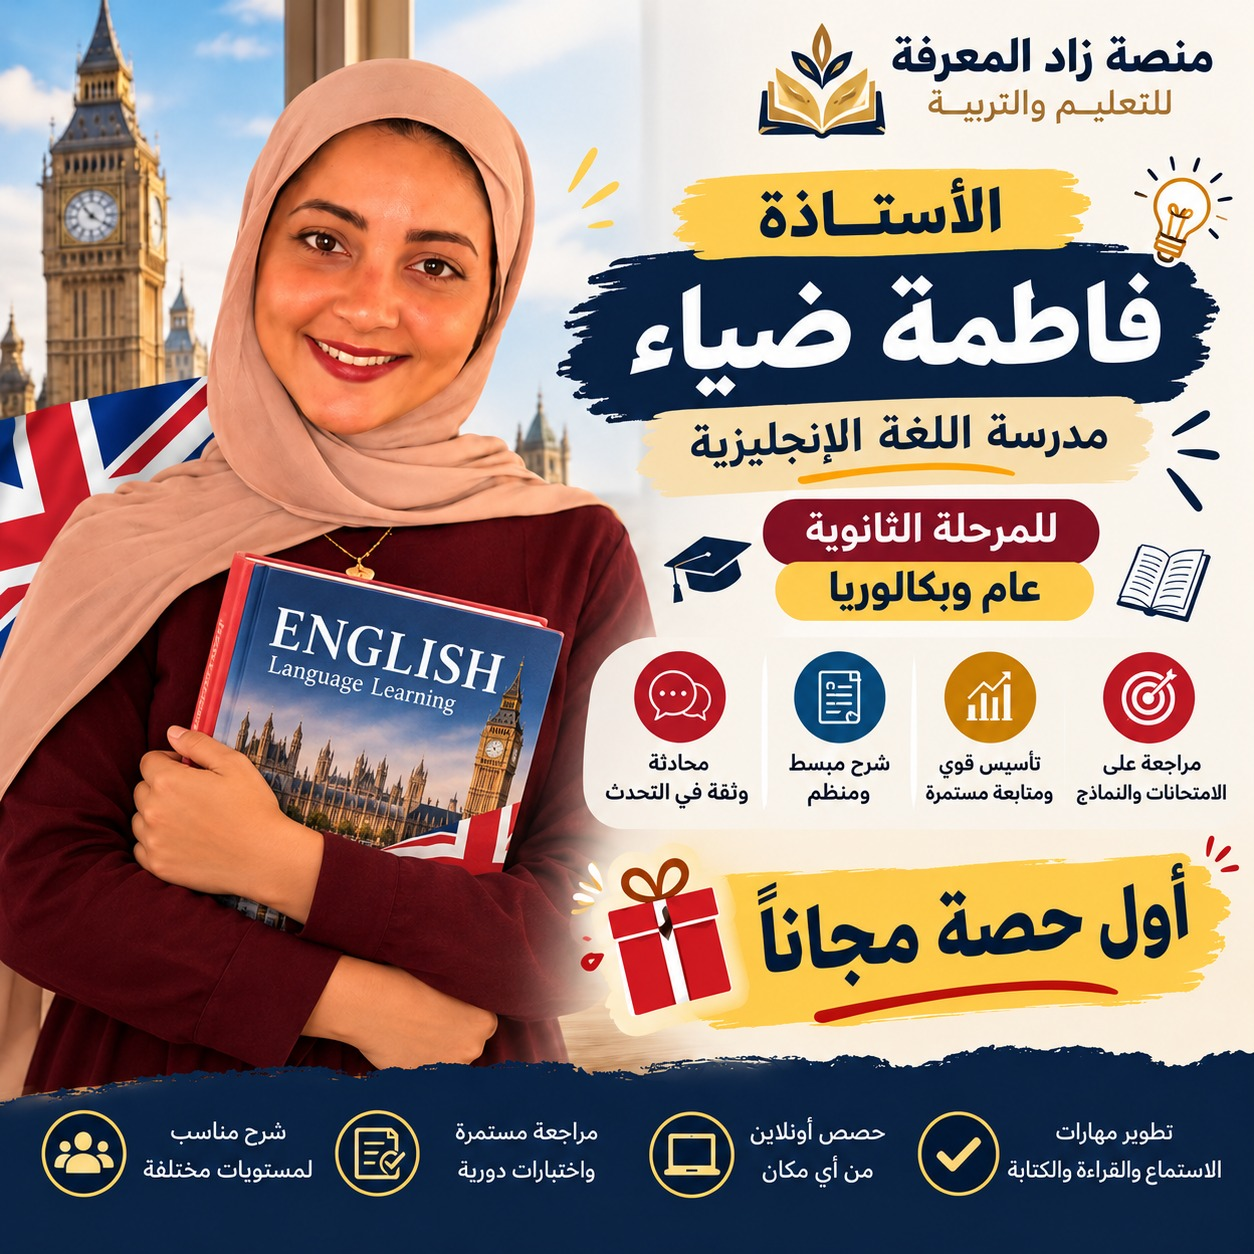
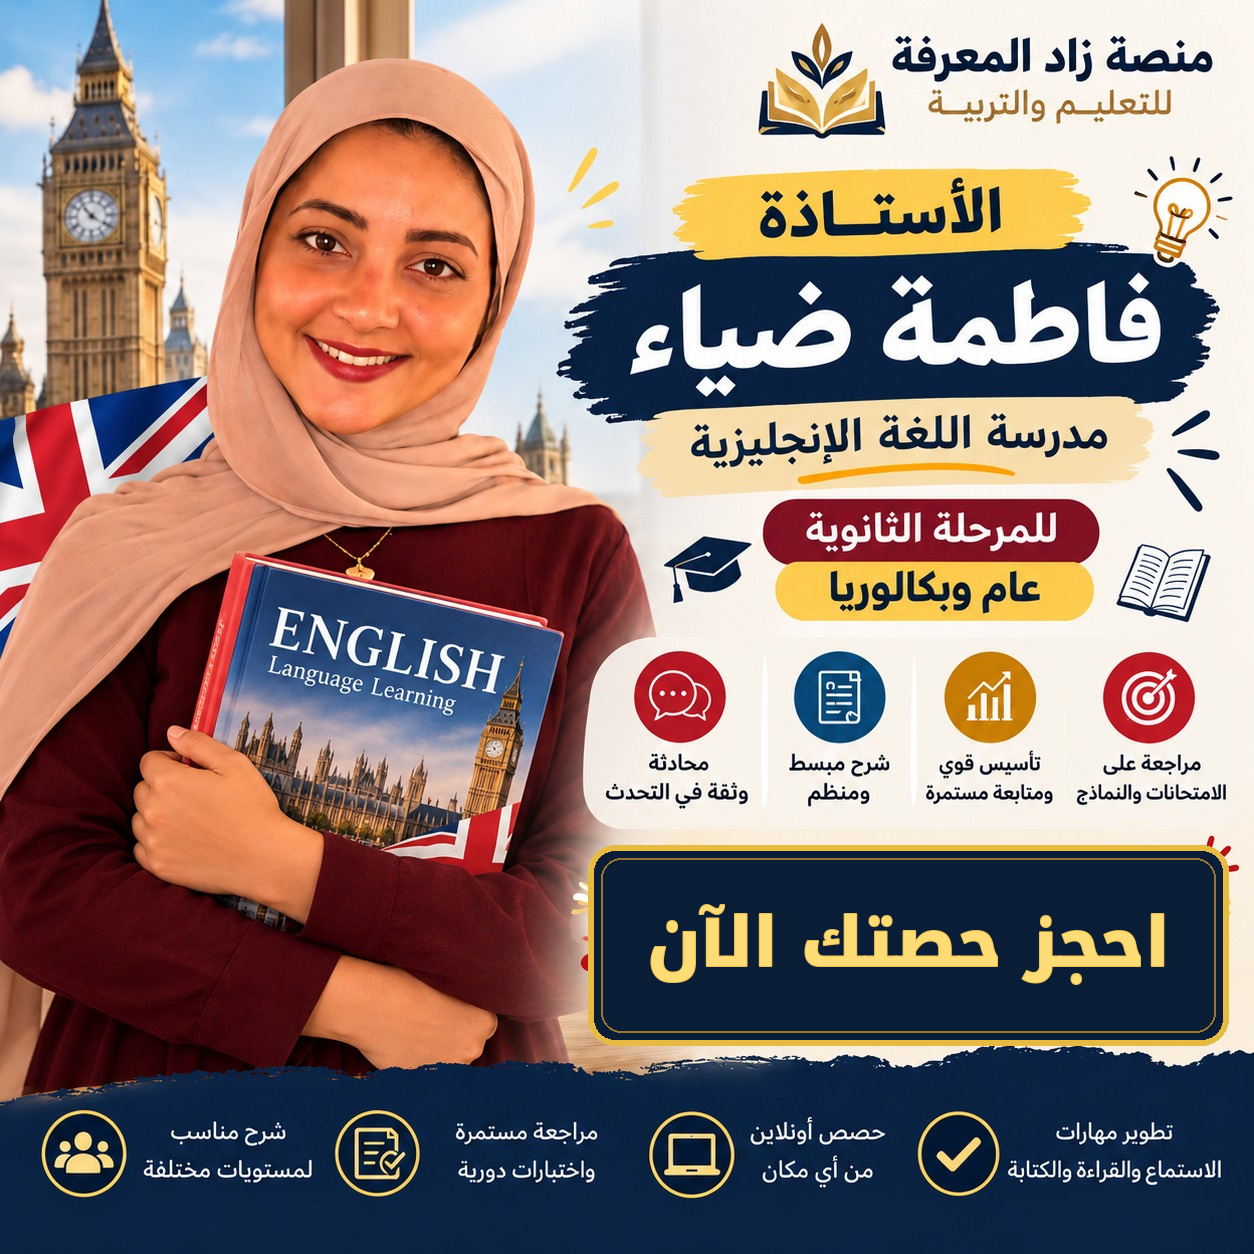
zad

Changed region(s): [[0.4665, 0.6531, 0.9952, 0.8397]]

diff --git a/teachers/index.html b/teachers/index.html
@@ -38,19 +38,20 @@ const LEGACY_TEACHERS = [
  { legacyKey:'legacy-dhia-quran', name:'الأستاذ ضياء نبيل', subject:'القرآن الكريم, التجويد, حفظ القرآن', role:'معلم القرآن الكريم وعلوم التجويد', image:'../images/quran-title.png', bio:'معلم متخصص في تحفيظ القرآن الكريم وتعليم أحكام التجويد، مع تبسيط التلاوة وتدريب الطلاب على القراءة الصحيحة بأسلوب سهل ومبسط.' },
  { legacyKey:'legacy-dhia-calligraphy', name:'الأستاذ ضياء نبيل', subject:'الخط العربي, تحسين الخط, الزخرفة', role:'معلم الخط العربي والزخرفة الإسلامية', image:'../images/arabic-calligraphy.png', bio:'معلم متخصص في تعليم الخط العربي بأنواعه المختلفة، مع التركيز على تنمية مهارات الجمال الفني في الكتابة والزخرفة الإسلامية.' },
  { legacyKey:'legacy-dhia-arabic', name:'الأستاذ ضياء نبيل', subject:'اللغة العربية', role:'معلم متعدد التخصصات', image:'../images/arabic-teacher.png', bio:'معلم متميز في اللغة العربية، يجمع بين العلم الشرعي والأصيل والإتقان في تعليم القرآن الكريم والمواد الشرعية بأسلوب مبسط وممتع.' },
- { legacyKey:'zad-mohamed-khaled-mahmoud', name:'الأستاذ محمد خالد محمود', subject:'الكيمياء, العلوم', stages:'المرحلة الثانوية', specialties:2, experience:1, role:'مدرس الكيمياء والعلوم للمرحلة الثانوية', image:'../images/mohamed-khaled-mahmoud.webp', bookingSection:'العلوم', bookingSubject:'الكيمياء', bio:'شرح مبسط وتدريبات ومتابعة للمرحلة الثانوية بجميع الشعب. حصص أونلاين وبرايفت.' }
+ { legacyKey:'zad-mohamed-khaled-mahmoud', name:'الأستاذ محمد خالد محمود', subject:'الكيمياء, العلوم', stages:'المرحلة الثانوية', specialties:1, experience:3, studentsCount:50, role:'مدرس الكيمياء والعلوم للمرحلة الثانوية', image:'../images/mohamed-khaled-mahmoud.webp', bookingSection:'العلوم', bookingSubject:'الكيمياء', bio:'شرح مبسط وتدريبات ومتابعة للمرحلة الثانوية بجميع الشعب. حصص أونلاين وبرايفت.' }
 ];
 
 function render(t){
  const name=text(t.name)||'المعلم';
- const image=photo(t.image);
+ const image=photo(/فاطمة\s+ضياء/.test(name)?'../images/fatima-diaa.jpeg':/محمد\s+خالد/.test(name)?'../images/mohamed-khaled-mahmoud.webp':t.image);
  // صور الإعلانات القديمة تحتوي عبارة الحصة المجانية داخل الصورة نفسها.
- const neutralPoster=/(?:فاطمة\s+ضياء|محمد\s+خالد)/.test(text(t.name));
+ const neutralPoster=false;
  const subjects=text(t.subject).split(',').map(x=>x.trim()).filter(Boolean);
  const stages=text(t.stages).split(',').map(x=>x.trim()).filter(Boolean);
  const bio=text(t.bio); const role=text(t.role);
- const experience=num(t.experience); const specialties=num(t.specialties)||subjects.length;
- const studentsCount=num(t.studentsCount);
+ const isHighlightedTeacher=/فاطمة\s+ضياء|محمد\s+خالد/.test(name);
+ const experience=isHighlightedTeacher?3:num(t.experience); const specialties=isHighlightedTeacher?1:(num(t.specialties)||subjects.length);
+ const studentsCount=isHighlightedTeacher?50:num(t.studentsCount);
  const subjectHtml=subjects.length?subjects.map(s=>`<span class="subject">📚 ${esc(s)}</span>`).join(''):'';
  const stageHtml=stages.length?`<div class="stages">${stages.map(stage=>`<span class="stage">🎓 ${esc(stage)}</span>`).join('')}</div>`:'';
  // Avoid showing an invented zero for experience or students when the value is unknown.
@@ -59,9 +60,16 @@ function render(t){
  const bookingSubject=text(t.bookingSubject)||subjects[0]||'';
  const params=new URLSearchParams({teacher:name,section:bookingSection,subject:bookingSubject});
  const bookingUrl='../sections/booking/index.html?'+params.toString();
- return `<article class="card">${neutralPoster?`<div class="teacher-neutral-art" aria-label="المعلم ${esc(name)}"><div class="teacher-neutral-mark">📚</div><div class="teacher-neutral-title">${esc(name)}</div><div class="teacher-neutral-desc">فريق تدريس زاد المعرفة</div></div>`:`<a class="photo-link" href="${esc(image)}" target="_blank" rel="noopener"><img loading="lazy" class="card-photo" src="${esc(image)}" alt="المعلم ${esc(name)}" onerror="this.onerror=null;this.src='../images/image-not-available.svg'"></a>`}<div class="card-body"><div><div class="teacher-name">${esc(name)}</div>${role?`<div class="teacher-role">${esc(role)}</div>`:''}</div>${subjectHtml?`<div class="subjects">${subjectHtml}</div>`:''}${stageHtml}${bio?`<p class="bio">${esc(bio)}</p>`:''}${stats.length?`<div class="stats">${stats.map(([label,value])=>`<div class="stat"><div class="stat-val">${esc(value)}</div><div class="stat-lbl">${esc(label)}</div></div>`).join('')}</div>`:''}<a class="book-teacher" href="${esc(bookingUrl)}">📅 احجز مع المعلم</a></div></article>`;
+ return `<article class="card"><a class="photo-link" href="${esc(image)}" target="_blank" rel="noopener"><img loading="lazy" class="card-photo" src="${esc(image)}" alt="المعلم ${esc(name)}" onerror="this.onerror=null;this.src='../images/image-not-available.svg'"></a><div class="card-body"><div><div class="teacher-name">${esc(name)}</div>${role?`<div class="teacher-role">${esc(role)}</div>`:''}</div>${subjectHtml?`<div class="subjects">${subjectHtml}</div>`:''}${stageHtml}${bio?`<p class="bio">${esc(bio)}</p>`:''}${stats.length?`<div class="stats">${stats.map(([label,value])=>`<div class="stat"><div class="stat-val">${esc(value)}</div><div class="stat-lbl">${esc(label)}</div></div>`).join('')}</div>`:''}<a class="book-teacher" href="${esc(bookingUrl)}">📅 احجز مع المعلم</a></div></article>`;
 }
-async function load(){try{const snap=await getDocs(collection(db,'teachers'));const raw=snap.docs.map(d=>({id:d.id,...d.data()}));const byLegacy=new Map(raw.filter(x=>x.legacyKey).map(x=>[x.legacyKey,x]));const firestoreList=raw.filter(x=>x.visible!==false).map(x=>{if(byLegacy.has(x.legacyKey)){const legacy=LEGACY_TEACHERS.find(t=>t.legacyKey===x.legacyKey);return legacy?{...legacy,...x,image:legacy.image}:x}return x});const fallbackList=LEGACY_TEACHERS.filter(x=>!byLegacy.has(x.legacyKey) && !raw.some(y=>text(y.name).replace(/^(الأستاذة|الأستاذ)\s+/, '')===text(x.name).replace(/^(الأستاذة|الأستاذ)\s+/, '')));const list=[...firestoreList,...fallbackList].filter(t=>!(/علي\s+عبد\s+الحميد/.test(text(t.name))||t.legacyKey==='zad-ali-abdelhamid')).map(t=>{const n=text(t.name);if(t.legacyKey==='zad-mohamed-khaled-mahmoud'||n.includes('محمد خالد محمود'))return {...t,subject:'الكيمياء, العلوم',stages:'المرحلة الثانوية',role:'مدرس الكيمياء والعلوم للمرحلة الثانوية',image:'../images/mohamed-khaled-mahmoud.webp',firstLessonFree:false,bookingSection:'العلوم',bookingSubject:'الكيمياء',bio:text(t.bio).replace(/،?\s*وأول حصة مجانية\.?/g,'')};return {...t,firstLessonFree:false,bio:text(t.bio).replace(/،?\s*وأول حصة مجانية\.?/g,'')};});if(!list.length){status.remove();grid.innerHTML='<div class="empty">لا يوجد معلمون مضافون حاليًا من لوحة التحكم.</div>';return}status.remove();grid.innerHTML=list.map(render).join('')}catch(e){console.warn('تعذر تحميل المعلمين من Firebase؛ سيتم عرض المعلمين الموجودين داخل الموقع.',e);status.remove();grid.innerHTML=LEGACY_TEACHERS.filter(t=>t.legacyKey!=='zad-ali-abdelhamid').map(render).join('')}}
+
+function isRemovedTeacher(t){
+ const n=[t?.name,t?.fullName,t?.displayName,t?.nameAr,t?.legacyKey,t?.id].filter(Boolean).join(' ').toLowerCase()
+   .normalize('NFKC').replace(/[\u064B-\u065F\u0670]/g,'').replace(/[أإآ]/g,'ا').replace(/ة/g,'ه');
+ return /فاطم[هة]\s+اشرف/.test(n) || /fat(?:ma|ima)\s*ashraf/.test(n) || /fatma[-_]?ashraf/.test(n);
+}
+
+async function load(){try{const snap=await getDocs(collection(db,'teachers'));const raw=snap.docs.map(d=>({id:d.id,...d.data()})).filter(t=>!isRemovedTeacher(t));const byLegacy=new Map(raw.filter(x=>x.legacyKey).map(x=>[x.legacyKey,x]));const firestoreList=raw.filter(x=>x.visible!==false).map(x=>{if(byLegacy.has(x.legacyKey)){const legacy=LEGACY_TEACHERS.find(t=>t.legacyKey===x.legacyKey);return legacy?{...legacy,...x,image:legacy.image}:x}return x});const fallbackList=LEGACY_TEACHERS.filter(x=>!byLegacy.has(x.legacyKey) && !raw.some(y=>text(y.name).replace(/^(الأستاذة|الأستاذ)\s+/, '')===text(x.name).replace(/^(الأستاذة|الأستاذ)\s+/, '')));const list=[...firestoreList,...fallbackList].filter(t=>!isRemovedTeacher(t)&&!(/علي\s+عبد\s+الحميد/.test(text(t.name))||t.legacyKey==='zad-ali-abdelhamid')).map(t=>{const n=text(t.name);if(t.legacyKey==='zad-mohamed-khaled-mahmoud'||n.includes('محمد خالد محمود'))return {...t,subject:'الكيمياء, العلوم',stages:'المرحلة الثانوية',role:'مدرس الكيمياء والعلوم للمرحلة الثانوية',image:'../images/mohamed-khaled-mahmoud.webp',firstLessonFree:false,bookingSection:'العلوم',bookingSubject:'الكيمياء',bio:text(t.bio).replace(/،?\s*وأول حصة مجانية\.?/g,'')};return {...t,firstLessonFree:false,bio:text(t.bio).replace(/،?\s*وأول حصة مجانية\.?/g,'')};});if(!list.length){status.remove();grid.innerHTML='<div class="empty">لا يوجد معلمون مضافون حاليًا من لوحة التحكم.</div>';return}status.remove();grid.innerHTML=list.map(render).join('')}catch(e){console.warn('تعذر تحميل المعلمين من Firebase؛ سيتم عرض المعلمين الموجودين داخل الموقع.',e);status.remove();grid.innerHTML=LEGACY_TEACHERS.filter(t=>t.legacyKey!=='zad-ali-abdelhamid').map(render).join('')}}
 load();
 </script>
 <script src="../assets/translation.js?v=20261016-globe2"></script><script src="https://translate.google.com/translate_a/element.js?cb=googleTranslateElementInit"></script>

diff --git a/dashboard/admin/remove-teacher-record.html b/dashboard/admin/remove-teacher-record.html
@@ -1,0 +1,9 @@
+<!doctype html><html lang="ar" dir="rtl"><head><meta charset="utf-8"><meta name="viewport" content="width=device-width,initial-scale=1"><title>حذف سجل فاطمة أشرف — زاد المعرفة</title><style>body{background:#0d1b31;color:#fff;font-family:Tahoma,Arial,sans-serif;max-width:740px;margin:70px auto;padding:25px;line-height:2}section{padding:26px;border:1px solid #d7b657;border-radius:18px;background:#172840}button,a{padding:12px 18px;border-radius:12px;background:#e6c15e;color:#122037;cursor:pointer;text-decoration:none;font-weight:bold;border:0}button:disabled{opacity:.5;cursor:wait}#message{white-space:pre-wrap;color:#dce6f5}</style></head><body><section><h1>حذف سجل المعلمة فاطمة أشرف</h1><p>الإجراء ده يحذف سجل المعلمة من مجموعة <code>teachers</code> في Firebase بعد التحقق من صلاحية الأدمن، ولا يحذف حساب تسجيل الدخول أو سجلات الحضور والمرتبات التاريخية.</p><p>الاسم يُفحص قبل الحذف لتجنب حذف معلمة أخرى. التعديل على الموقع بيخفيها بالفعل حتى قبل تنفيذ هذا الإجراء.</p><button id="removeBtn" disabled>جارٍ التحقق من حساب الإدارة...</button> <a href="./index.html">العودة للأدمن</a><p id="message" role="status"></p></section><script type="module">
+import {auth,db} from '../../firebase-config.js';
+import {onAuthStateChanged} from 'https://www.gstatic.com/firebasejs/12.18.0/firebase-auth.js';
+import {collection,doc,getDoc,getDocs,deleteDoc} from 'https://www.gstatic.com/firebasejs/12.18.0/firebase-firestore.js';
+const btn=document.getElementById('removeBtn'),msg=document.getElementById('message');let user;
+function target(t){const s=[t.name,t.fullName,t.displayName,t.nameAr,t.legacyKey,t.id].filter(Boolean).join(' ').toLowerCase().normalize('NFKC').replace(/[\u064B-\u065F\u0670]/g,'').replace(/[أإآ]/g,'ا').replace(/ة/g,'ه');return /فاطم[هة]\s+اشرف/.test(s)||/fat(?:ma|ima)\s*ashraf/.test(s)||/fatma[-_]?ashraf/.test(s)}
+onAuthStateChanged(auth,async u=>{if(!u){msg.textContent='سجّل الدخول بحساب الأدمن أولًا.';return}try{const [admin,profile]=await Promise.all([getDoc(doc(db,'admins',u.uid)),getDoc(doc(db,'users',u.uid))]);if(!(admin.exists()||profile.data()?.role==='admin'||(u.email?.toLowerCase()==='maleksameh121@gmail.com'&&u.emailVerified))){msg.textContent='غير مسموح: الحساب ليس أدمن.';return}user=u;btn.disabled=false;btn.textContent='حذف سجل فاطمة أشرف من Firebase';msg.textContent='جاهز للتنفيذ من حساب الأدمن.'}catch(e){msg.textContent='تعذر التحقق من الصلاحية: '+e.message}});
+btn.onclick=async()=>{if(!user)return;if(!confirm('هل تؤكد حذف سجل فاطمة أشرف من طاقم التدريس في Firebase؟ لا يمكن التراجع عن الحذف.'))return;btn.disabled=true;try{const snap=await getDocs(collection(db,'teachers'));const list=snap.docs.filter(d=>target({id:d.id,...d.data()}));if(!list.length){msg.textContent='لا يوجد سجل مطابق؛ قد يكون محذوفًا بالفعل.';return}for(const d of list){await deleteDoc(d.ref)}msg.textContent=`تم حذف ${list.length} سجل من teachers بنجاح. سجلات الحصص والحسابات لم تُمس.`}catch(e){msg.textContent='تعذر إتمام الحذف على Firebase: '+e.message+'\nتحقق من قواعد Firestore وصلاحية الأدمن.';btn.disabled=false}};
+</script></body></html>

diff --git a/dashboard/admin/admin-enhancements.js b/dashboard/admin/admin-enhancements.js
@@ -48,14 +48,27 @@ function exportCSV(){
   const blob=new Blob([csv],{type:'text/csv;charset=utf-8'}); const a=document.createElement('a'); a.href=URL.createObjectURL(blob); a.download=`zad-users-${new Date().toISOString().slice(0,10)}.csv`; a.click(); setTimeout(()=>URL.revokeObjectURL(a.href),1000);
 }
 
+// Some Firestore projects reject aggregation queries even when a normal collection
+// read is allowed. Use a direct read as a fallback; don't convert access errors to 0.
+async function countAttempts(path){
+  try { return (await getCountFromServer(collection(db,path))).data().count; }
+  catch(aggregationError){
+    try { return (await getDocs(collection(db,path))).size; }
+    catch(readError){
+      console.warn('Cannot count exam attempts',path,{aggregationError,readError});
+      throw readError;
+    }
+  }
+}
+
 async function load(){
   try{
     const [usResult,bookResult,...examResults]=await Promise.allSettled([
       getDocs(collection(db,'users')),
       getDocs(query(collection(db,'bookings'),orderBy('createdAt','desc'),limit(500))),
-      getCountFromServer(collection(db,'quizAttempts')),
-      getCountFromServer(collection(db,'codeExamResults')),
-      getCountFromServer(collection(db,'unitOneExamAttempts'))
+      countAttempts('quizAttempts'),
+      countAttempts('codeExamResults'),
+      countAttempts('unitOneExamAttempts')
     ]);
     if(usResult.status==='fulfilled') users=usResult.value.docs.map(d=>d.data());
     else { users=[]; console.warn('تعذر تحميل المستخدمين',usResult.reason); }
@@ -63,10 +76,11 @@ async function load(){
     else { bookings=[]; console.warn('تعذر تحميل الحجوزات',bookResult.reason); }
     const examNames=['الاختبارات القصيرة','الامتحانات الإلكترونية','امتحانات الوحدة'];
     const failed=examResults.map((r,i)=>r.status==='rejected'?examNames[i]:null).filter(Boolean);
-    attemptsCount=failed.length?null:examResults.reduce((total,r)=>total+(r.status==='fulfilled'?r.value.data().count:0),0);
-    attemptsNotice=failed.length?'تعذر قراءة '+failed.join('، ')+'؛ لا يمكن تأكيد الإجمالي.':'';
+    const availableCount=examResults.reduce((total,r)=>total+(r.status==='fulfilled'?Number(r.value):0),0);
+    attemptsCount=failed.length?null:availableCount;
+    attemptsNotice=failed.length?'تم العثور على '+availableCount+' محاولة في المصادر المقروءة، لكن تعذر الوصول إلى '+failed.join('، ')+'؛ الإجمالي غير مكتمل.':'';
     const attemptsLabel=document.getElementById('zadExamAttemptsStatNote');
-    if(attemptsLabel){attemptsLabel.textContent=attemptsNotice || 'من الاختبارات القصيرة والامتحانات الإلكترونية وامتحانات الوحدة';attemptsLabel.style.color=failed.length?'#f7bb60':'';}
+    if(attemptsLabel){attemptsLabel.textContent=attemptsNotice || 'محاولات الاختبارات القصيرة والامتحانات الإلكترونية وامتحانات الوحدة';attemptsLabel.style.color=failed.length?'#f7bb60':'';}
     for(let i=0;i<examResults.length;i++) if(examResults[i].status==='rejected') console.warn('Exam statistics read failed: '+examNames[i],examResults[i].reason);
     if(usResult.status==='rejected'){ const el=$('enhDataStatus');if(el)el.textContent='تعذر قراءة المستخدمين من Firebase؛ أعد المحاولة بعد التأكد من صلاحيات الأدمن.'; }
 

diff --git a/dashboard/admin/index.html b/dashboard/admin/index.html
@@ -3986,5 +3986,5 @@ guard('admin', async () => {
   .zad-store-access{left:12px!important;right:auto!important;bottom:60px!important;padding:9px 12px;font-size:12px}
 }
 </style>
-</body>
+<a href="remove-teacher-record.html" title="حذف سجل فاطمة أشرف من Firebase" style="position:fixed;bottom:12px;right:12px;z-index:101;background:#b48b25;color:#071629;border-radius:10px;padding:6px 12px;font-size:12px">تنظيف سجل المعلمة المحذوفة</a></body>
 </html>

diff --git a/README_FILES/README_REMOVE_TEACHER_AND_RESTORE_POSTERS_AR.md b/README_FILES/README_REMOVE_TEACHER_AND_RESTORE_POSTERS_AR.md
@@ -1,0 +1,7 @@
+# تعديل طاقم التدريس
+
+- أُخفيت المعلمة فاطمة أشرف من صفحة طاقم التدريس في كل حالات التحميل، بما في ذلك سجلات Firebase القديمة.
+- لاستكمال حذف سجلها من قاعدة Firebase الحية، افتح `dashboard/admin/remove-teacher-record.html` بحساب أدمن واضغط «حذف سجل فاطمة أشرف من Firebase». لا يمكن تنفيذ هذا الحذف من ملف ZIP وحده.
+- لا يحذف هذا الإجراء حساب Firebase Authentication ولا سجلات الحضور والمرتب التاريخية حتى لا تتلف القيود المالية.
+- استُعيدت صور الإعلان الأصلية لفاطمة ضياء ومحمد خالد محمود بعد تغطية عرض «أول حصة مجانية» بعبارة «احجز حصتك الآن» مع الحفاظ على معظم التصميم الأصلي.
+- إذا خزّن المتصفح الصور القديمة، اضغط Ctrl+F5 بعد النشر.
